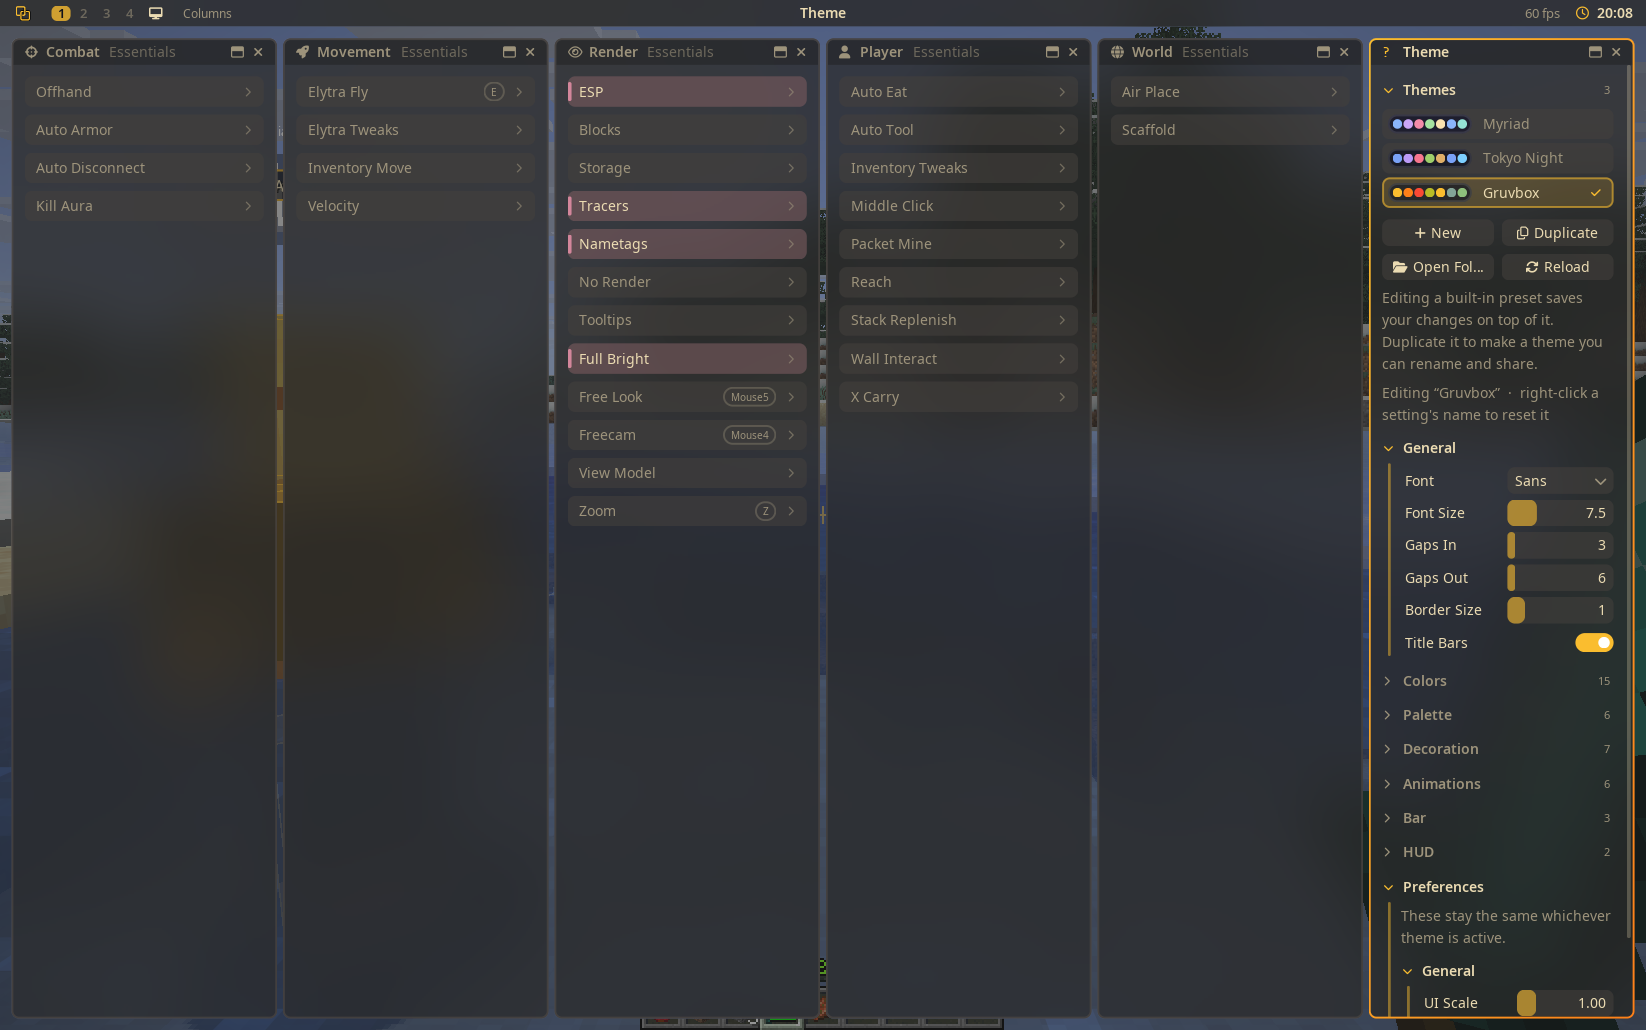
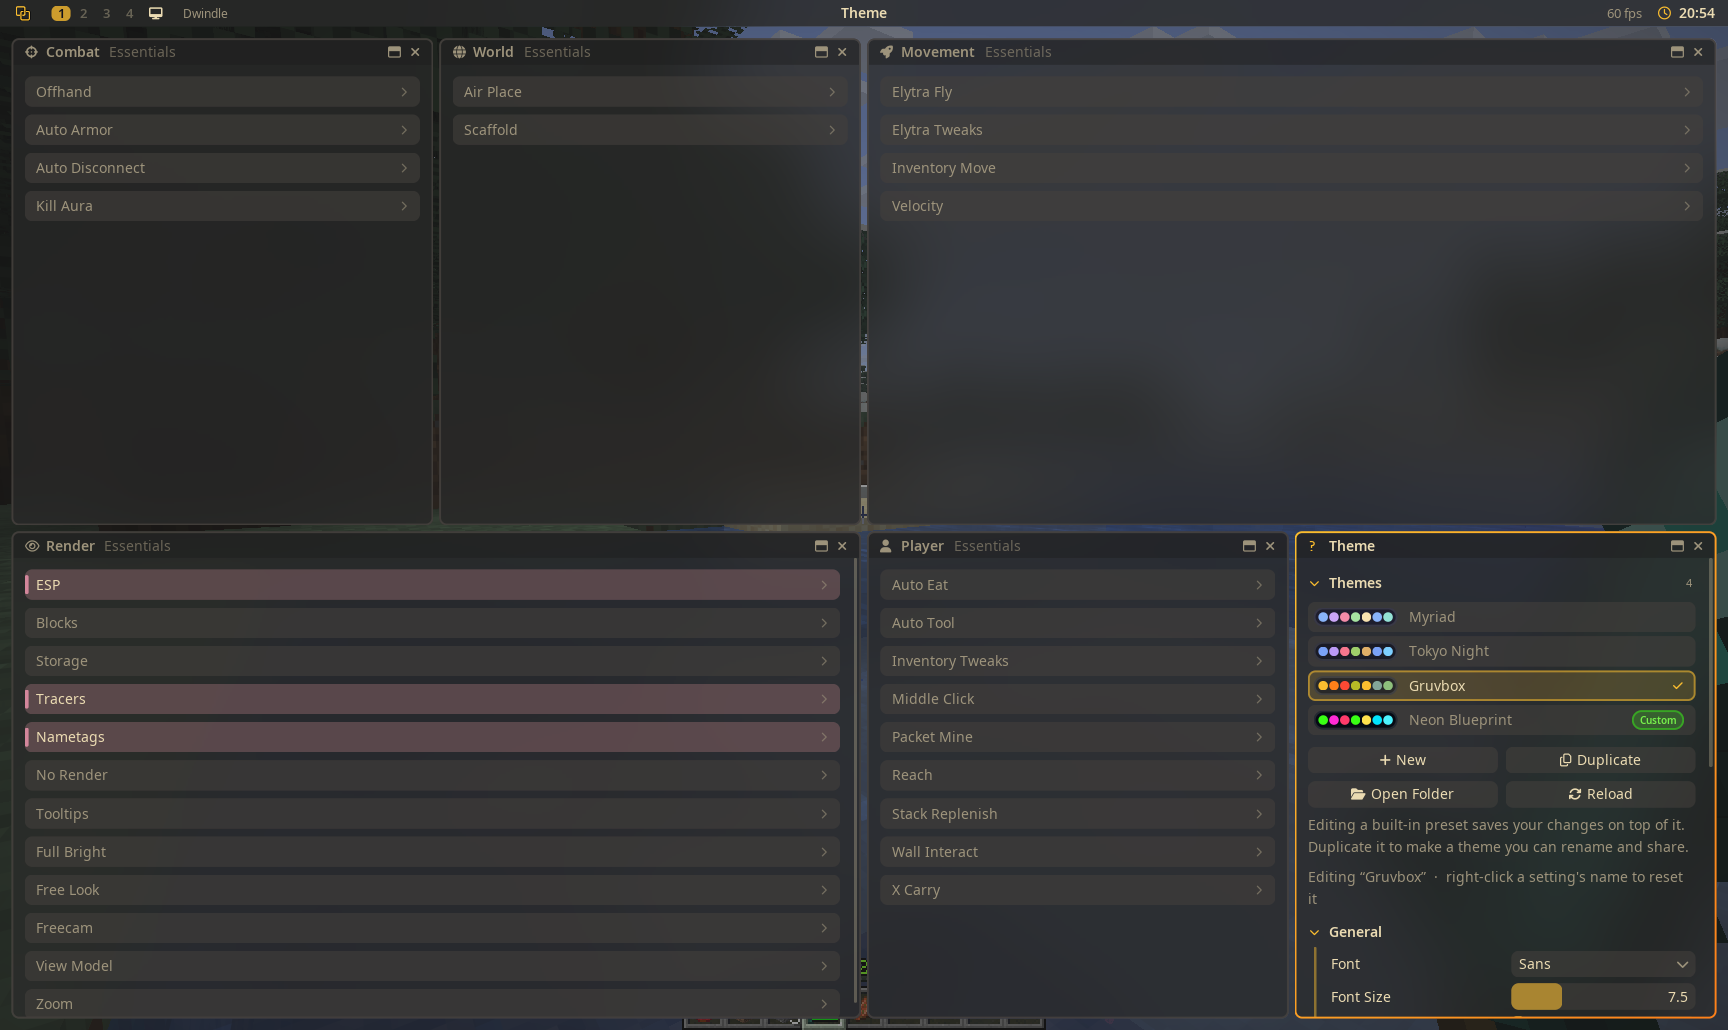
Dwindle by default, with an even first-run grid; README screenshots in Dwindle and a custom theme
The first workspace starts in Dwindle like the others. The first-run desktop splits the least recently split window
each time, so the stock category windows come up as a grid. Screenshots retaken in Dwindle, plus Neon Blueprint, a
user theme kept in docs/themes to show what a theme file can change, and the old Columns shot kept as the layout example.

Claude-Session: https://claude.ai/code/session_01YBiSiXk7QpFRUBAoATF6bd

diff --git a/core/src/main/java/dev/myriad/impl/ui/WindowManager.java b/core/src/main/java/dev/myriad/impl/ui/WindowManager.java
@@ -1882,14 +1882,23 @@ public final class WindowManager implements Desktop {
 	/** Workspace 1: one window per addon + category group, side by side (a tiled click-GUI). */
 	private void defaultWorkspaces() {
 		active = 1;
-		workspaces[1].setLayout(Myriad.layouts().get(dev.myriad.impl.ui.layout.ColumnsLayout.ID).orElse(defaultLayout()));
+		Workspace ws = workspaces[1];
+		// Dwindle splits the focused window. Splitting the least recently split one each time gives an even grid, where
+		// splitting the newest every time would halve its way down to slivers.
+		java.util.ArrayDeque<WindowImpl> toSplit = new java.util.ArrayDeque<>();
 		WindowImpl first = null;
 		for (ModuleGroup g : ModuleGroup.all()) {
+			WindowImpl target = toSplit.poll();
+			if (target != null) ws.focused = target;
 			Optional<Window> w = openPanel(CorePanels.CATEGORY, ModuleGroup.args(List.of(g)), 1, false);
-			if (first == null && w.isPresent()) first = (WindowImpl) w.get();
+			if (w.isEmpty()) continue;
+			WindowImpl win = (WindowImpl) w.get();
+			if (first == null) first = win;
+			if (target != null) toSplit.add(target);
+			toSplit.add(win);
 		}
 		if (first == null) openPanel(dev.myriad.impl.ui.panels.CorePanels.MODULES, new JsonObject(), 1, false);
-		else workspaces[1].focused = first;
+		else ws.focused = first;
 		for (WindowImpl w : windows) w.opacity.snap(1);
 	}
 

diff --git a/README.md b/README.md
@@ -9,14 +9,14 @@
   <img src="https://img.shields.io/badge/license-CC0-3b7dd8" alt="CC0">
 </p>
 
-![The Myriad menu: one window per category, tiled side by side](docs/screenshots/menu-myriad.png)
+![The Myriad menu: Essentials' category windows tiled by the Dwindle layout](docs/screenshots/menu-dwindle.png)
 
 Myriad is built like a desktop, not a click-GUI. The menu is a window manager modelled on
 [Hyprland](https://hyprland.org): workspaces, tiled or floating windows, layouts, a launcher, and everything reachable
 from the keyboard. The core ships **no modules at all**. Every feature, including the stock set, is an addon written
 against the public API, so the client is whatever addons you put next to it.
 
-- **Workspaces and layouts.** Nine workspaces, each tiling its windows with Columns, Dwindle or Master. Lay out a
+- **Workspaces and layouts.** Nine workspaces, each tiling its windows with Dwindle, Columns or Master. Lay out a
   combat workspace and a base workspace, merge windows, float the ones you want on top.
 - **Launcher.** `Alt+Space` fuzzy-searches modules, panels, themes, profiles and workspaces. Enter toggles, Shift+Enter
   opens settings.
@@ -53,11 +53,13 @@ For writing your own: [myriad-addon-template](https://github.com/fyzz-dev/myriad
 | | |
 |---|---|
 | ![A module's settings in a window of its own](docs/screenshots/settings.png) | ![The launcher](docs/screenshots/launcher.png) |
-| A module's settings, inline under the module or in a window of their own. | The launcher: type a few letters, Enter toggles. |
-| ![In game: ESP, tracers, nametags and the HUD](docs/screenshots/hud.png) | ![Tokyo Night](docs/screenshots/menu-tokyo-night.png) |
-| In game: ESP, tracers and nametags from Essentials, the HUD drawn by the same window manager. | The Theme panel, on Tokyo Night. Every colour, gap and curve is a setting. |
-| ![Gruvbox](docs/screenshots/menu-gruvbox.png) | |
-| Gruvbox. Themes are files you can share. | |
+| A module's settings, inline under the module or in a window of their own, which Dwindle tiles in beside it. | The launcher: type a few letters, Enter toggles. |
+| ![In game: ESP, tracers, nametags and the HUD](docs/screenshots/hud.png) | ![Neon Blueprint, a user theme](docs/screenshots/menu-neon-blueprint.png) |
+| In game: ESP, tracers and nametags from Essentials, the HUD drawn by the same window manager. | A theme of your own: square corners, wide gaps, a thick gradient border, a mono font, dimmed inactive windows. It's one JSON file ([`docs/themes/neon_blueprint.json`](docs/themes/neon_blueprint.json), drop it in `.minecraft/myriad/themes/`). |
+| ![Tokyo Night](docs/screenshots/menu-tokyo-night.png) | ![Gruvbox](docs/screenshots/menu-gruvbox.png) |
+| The Theme panel, on the Tokyo Night preset. Every colour, gap and curve is a setting. | Gruvbox. Editing a preset saves your changes on top of it. |
+| ![The Columns layout](docs/screenshots/menu-columns.png) | |
+| The Columns layout, one category per column; `mod+L` cycles layouts per workspace. | |
 
 ## Building and running
 
@@ -93,9 +95,10 @@ release from their own repositories, to the same maven.
 
 Press **Right Shift** (rebindable) in game or on the title screen to open the Myriad menu.
 
-- **Workspaces 1–9** each tile their windows with a layout. **Columns** is the default: one window per module
-  category, side by side, with each module's settings unfolding inline. **Dwindle** (each new window splits the
-  focused one, Hyprland's default) and **Master** are also built in, and addons can register more layouts.
+- **Workspaces 1–9** each tile their windows with a layout. **Dwindle** is the default, as in Hyprland: each new
+  window splits the focused one, so a workspace grows into a grid. **Columns** (one window per module category, side
+  by side, with each module's settings unfolding inline) and **Master** are also built in, and addons can register
+  more layouts.
 - **Category windows** hold one addon's modules in one category: *Combat · Essentials*, *Combat · Crystal PvP*. Addons
   share the standard categories (same icon and colour) and can add their own. Lay them out however suits you, say a
   combat workspace and a base workspace; when you install an addon, its windows open on the workspace that already

diff --git a/CHANGELOG.md b/CHANGELOG.md
@@ -8,6 +8,8 @@ and may change in any release. Addons declare the oldest core they support in `f
 
 ## Unreleased
 
+- Dwindle is the default layout for the first workspace too (it already was for the others); the first-run desktop
+  splits the largest window each time, so the stock windows come up as a grid rather than ever thinner slivers.
 - Essentials has moved to its own repository, [myriad-essentials](https://github.com/fyzz-dev/myriad-essentials),
   with its own versions and releases; the Grim test server and suite went with it. This repository is core and the
   example addon, and `example-addon/` is a code sample now: it still builds and runs, but isn't released.
